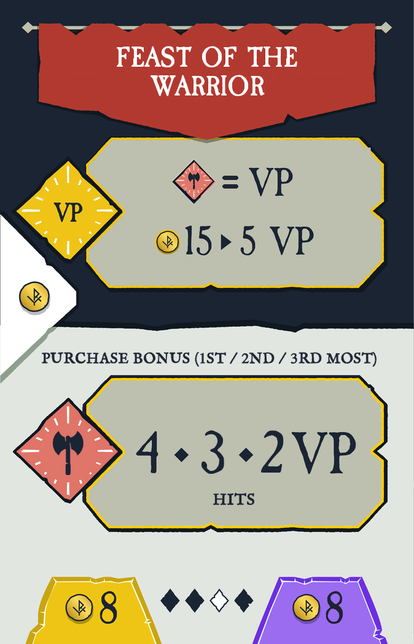
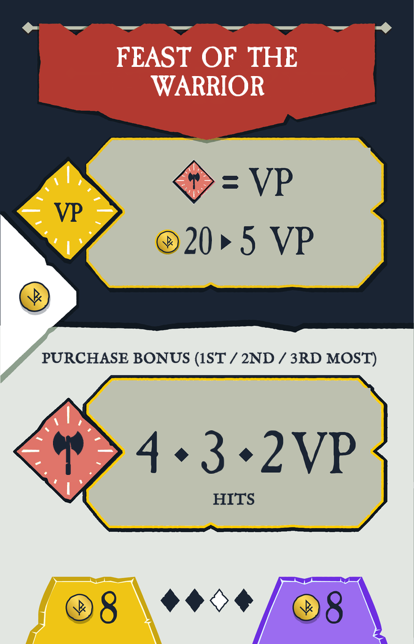
Deploy: Rocky Ventures logic 0.0.47 + UI 0.0.154 (Feast point buys $15 and $20 for 5 VP in new games and Rocky Balboa 2, new card art)

diff --git a/games/rocky-ventures-ui/src/lib/bots/rockyBots.ts b/games/rocky-ventures-ui/src/lib/bots/rockyBots.ts
@@ -2,6 +2,7 @@ import {
     ActionType,
     currentPlayerId,
     freeBonusClaimMineIds,
+    feastPointBuyCost,
     BoardBoxLocations,
     CardBonusKind,
     CardKind,
@@ -167,9 +168,9 @@ function reserveFor(state: HydratedRockyVenturesGameState): number {
         return 0
     }
     if (eraInMarket) {
-        return era.pointBuyCost * 2
+        return feastPointBuyCost(state, era) * 2
     }
-    return deckIndex < 6 ? era.pointBuyCost : 0
+    return deckIndex < 6 ? feastPointBuyCost(state, era) : 0
 }
 
 function routeBoxIds(state: HydratedRockyVenturesGameState, playerId: string): Set<string> {
@@ -210,9 +211,9 @@ function pointBuyMoves(state: HydratedRockyVenturesGameState, player: HydratedRo
     const best = [...player.shares]
         .map((share) => ({ share, value: shareValue(state, share.companyId, share.shareIndex) }))
         .sort((left, right) => right.value - left.value)[0]
-    const plain = Math.max(0, Math.floor((player.money - keep) / card.pointBuyCost))
+    const plain = Math.max(0, Math.floor((player.money - keep) / feastPointBuyCost(state, card)))
     if (best) {
-        const withShare = Math.max(0, Math.floor((player.money + best.value - keep) / card.pointBuyCost))
+        const withShare = Math.max(0, Math.floor((player.money + best.value - keep) / feastPointBuyCost(state, card)))
         if (withShare > plain) {
             return [
                 {
@@ -293,7 +294,7 @@ function taxBotMoves(state: HydratedRockyVenturesGameState, playerId: string, va
         case MachineState.PointBuy: {
             const cardId = state.pointBuy?.cardId
             const card = cardId ? getCard(cardId) : undefined
-            const bundles = card && card.kind === CardKind.EndOfEra ? Math.floor(player.money / card.pointBuyCost) : 0
+            const bundles = card && card.kind === CardKind.EndOfEra ? Math.floor(player.money / feastPointBuyCost(state, card)) : 0
             return [{ type: ActionType.PointBuy, bundles }, { type: ActionType.PointBuy, bundles: 0 }]
         }
         case MachineState.Hunt: {

diff --git a/games/rocky-ventures/src/actions/pointBuy.ts b/games/rocky-ventures/src/actions/pointBuy.ts
@@ -1,3 +1,4 @@
+import { feastPointBuyCost } from '../operations/feastBonus.js'
 import * as Type from 'typebox'
 import { recordCash, recordVictoryPoints } from '../operations/stats.js'
 import { Compile } from 'typebox/compile'
@@ -70,9 +71,9 @@ export class HydratedPointBuy extends HydratableAction<typeof PointBuy> implemen
             })
             player.shares.splice(index, 1)
         }
-        player.spendMoney(card.pointBuyCost * this.bundles)
+        player.spendMoney(feastPointBuyCost(state, card) * this.bundles)
         player.addVictoryPoints(card.pointBuyVictoryPoints * this.bundles)
-        recordCash(state, this.playerId, -card.pointBuyCost * this.bundles, 'pointBuy', {
+        recordCash(state, this.playerId, -feastPointBuyCost(state, card) * this.bundles, 'pointBuy', {
             cardId: pointBuy.cardId
         })
         recordVictoryPoints(state, this.playerId, card.pointBuyVictoryPoints * this.bundles, 'pointBuy', {
@@ -116,7 +117,7 @@ export class HydratedPointBuy extends HydratableAction<typeof PointBuy> implemen
             const company = state.getCompany(convertShare.companyId)
             money += company.multiplierForShare(convertShare.shareIndex) * company.value
         }
-        if (card.pointBuyCost * bundles > money) {
+        if (feastPointBuyCost(state, card) * bundles > money) {
             return 'Not enough money to buy that many points'
         }
         return undefined

diff --git a/games/rocky-ventures-ui/src/lib/components/ActionPanel.svelte b/games/rocky-ventures-ui/src/lib/components/ActionPanel.svelte
@@ -9,6 +9,7 @@
         ActionType,
         BoardNodesById,
         freeBonusClaimMineIds,
+        feastPointBuyCost,
         isBonusToken,
         CardActionKind,
         CardKind,
@@ -195,7 +196,7 @@
         return company.multiplierForShare(selection.shareIndex) * company.value
     })
     const maxBundles = $derived(
-        player && pointBuyCard ? Math.floor((player.money + convertCash) / pointBuyCard.pointBuyCost) : 0
+        player && pointBuyCard ? Math.floor((player.money + convertCash) / feastPointBuyCost(gameState, pointBuyCard)) : 0
     )
     const bundles = $derived(Math.min(gameSession.pointBuyBundles, maxBundles))
 </script>
@@ -1200,7 +1201,7 @@
         </div>
     {:else if gameState.machineState === MachineState.PointBuy && pointBuyCard}
         {@const feastUrl = gameState.pointBuy?.cardId ? cardImageUrl(gameState.pointBuy.cardId) : undefined}
-        {@const cost = pointBuyCard.pointBuyCost}
+        {@const cost = feastPointBuyCost(gameState, pointBuyCard)}
         {@const vpEach = pointBuyCard.pointBuyVictoryPoints}
         {@const moneyAfter = player.money + convertCash - bundles * cost}
         <!-- Feast point buy: the Feast card, an optional share to cash in, and a VP stepper -->

diff --git a/games/rocky-ventures/src/operations/dummy.ts b/games/rocky-ventures/src/operations/dummy.ts
@@ -1,3 +1,4 @@
+import { feastPointBuyCost } from './feastBonus.js'
 import { Prng } from '@tabletop/common'
 import { CardKind, getCard } from '../data/cards.js'
 import { TaxSlotIndex, taxIncomeFor } from '../data/setup.js'
@@ -72,11 +73,11 @@ export function dummyPointBuy(state: HydratedRockyVenturesGameState, cardId: str
     if (!dummy || card.kind !== CardKind.EndOfEra) {
         return
     }
-    const bundles = Math.floor(dummy.money / card.pointBuyCost)
+    const bundles = Math.floor(dummy.money / feastPointBuyCost(state, card))
     if (bundles === 0) {
         return
     }
-    dummy.money -= bundles * card.pointBuyCost
+    dummy.money -= bundles * feastPointBuyCost(state, card)
     dummy.victoryPoints += bundles * card.pointBuyVictoryPoints
     recordStat(state, {
         kind: StatKind.VictoryPoints,
@@ -88,7 +89,7 @@ export function dummyPointBuy(state: HydratedRockyVenturesGameState, cardId: str
     recordStat(state, {
         kind: StatKind.Cash,
         playerId: DummyPlayerId,
-        amount: -bundles * card.pointBuyCost,
+        amount: -bundles * feastPointBuyCost(state, card),
         source: 'pointBuy',
         cardId
     })

diff --git a/games/rocky-ventures/src/model/gameState.ts b/games/rocky-ventures/src/model/gameState.ts
@@ -120,6 +120,7 @@ export const RockyVenturesGameState = Type.Evaluate(
             bonusTokenCash: Type.Optional(Type.Boolean()),
             feastCategories: Type.Optional(Type.Record(Type.String(), Type.String())),
             feastNotTucked: Type.Optional(Type.Boolean()),
+            feastPointBuyCosts: Type.Optional(Type.Record(Type.String(), Type.Number())),
             pendingMarketDraws: Type.Optional(Type.Number()),
             eraThreeTriggered: Type.Optional(Type.Boolean()),
             gemsSpent: Type.Number(),
@@ -204,6 +205,9 @@ export class HydratedRockyVenturesGameState
     declare feastCategories?: Record<string, string>
     // The player who buys a Feast no longer tucks it (Justin, 2026-11-23; every open game).
     declare feastNotTucked?: boolean
+    // Feast point buy prices that differ from the printed card, by card id (Justin, 2026-11-23:
+    // Era I $15 and Era II $20 for 5 VP; new games and Rocky Balboa 2).
+    declare feastPointBuyCosts?: Record<string, number>
     declare pendingMarketDraws?: number
     declare eraThreeTriggered?: boolean
     declare gemsSpent: number

diff --git a/games/rocky-ventures/src/operations/runningGameMigrations.ts b/games/rocky-ventures/src/operations/runningGameMigrations.ts
@@ -4,6 +4,7 @@ import { MaxGems } from '../model/playerState.js'
 import { getCard, CardKind } from '../data/cards.js'
 import type { HydratedRockyVenturesGameState } from '../model/gameState.js'
 import { FirstEraCardId, SecondEraCardId, ThirdEraCardId } from './market.js'
+import { NewFeastPointBuyCosts } from './feastBonus.js'
 
 // Running games Justin asked to move onto the two-sided agreements and the 2-gem start
 // (2026-11-03). Each switches the first time it loads after the change, as long as nobody holds
@@ -125,6 +126,8 @@ export function migrateRunningGame(state: HydratedRockyVenturesGameState) {
         }
         if (FeastLastInDecadeGameIds.includes(state.gameId)) {
             migrateFeastsLastInDecade(state)
+            // ...and the new Feast point buy prices (Justin, 2026-11-23).
+            if (!state.feastPointBuyCosts) state.feastPointBuyCosts = { ...NewFeastPointBuyCosts }
         }
         if (InOrderAndDeliveryScoringGameIds.includes(state.gameId)) {
             state.actionsInOrder = true

diff --git a/games/rocky-ventures/src/definition/initializer.ts b/games/rocky-ventures/src/definition/initializer.ts
@@ -8,6 +8,7 @@ import {
     HydratedTurnManager,
     shuffle
 } from '@tabletop/common'
+import { NewFeastPointBuyCosts } from '../operations/feastBonus.js'
 import { pickFeastCategories } from '../operations/feastBonus.js'
 import { DummyPlayerCount } from '../model/dummy.js'
 import { HydratedRockyVenturesGameState, RockyVenturesGameState } from '../model/gameState.js'
@@ -103,6 +104,7 @@ export class RockyVenturesGameInitializer
             gemsLost: 0,
             bonusTokenCash: true,
             feastNotTucked: true,
+            feastPointBuyCosts: { ...NewFeastPointBuyCosts },
             feastCategories: pickFeastCategories(prng.random),
             gemsSpent: 0,
             era: 1,

diff --git a/games/rocky-ventures/src/operations/feastBonus.ts b/games/rocky-ventures/src/operations/feastBonus.ts
@@ -105,3 +105,12 @@ export function scoreFeastBuyerBonus(state: HydratedRockyVenturesGameState, play
         recordVictoryPoints(state, playerId, points, 'feastBonus', { cardId })
     }
 }
+
+// Feast point buy prices from 2026-11-23 (Justin): Era I $15 and Era II $20 for 5 VP; Era III stays
+// $5 for 1 VP.
+export const NewFeastPointBuyCosts: Record<string, number> = { [FirstEraCardId]: 15, [SecondEraCardId]: 20 }
+
+// What one point buy bundle costs for this Feast in this game.
+export function feastPointBuyCost(state: HydratedRockyVenturesGameState, card: { id: string; pointBuyCost: number }): number {
+    return state.feastPointBuyCosts?.[card.id] ?? card.pointBuyCost
+}

diff --git a/games/rocky-ventures/src/definition/version.ts b/games/rocky-ventures/src/definition/version.ts
@@ -1,2 +1,2 @@
 // Generated by tools/scripts/write-game-version.cjs
-export const GAME_VERSION = '0.0.46'
+export const GAME_VERSION = '0.0.47'
